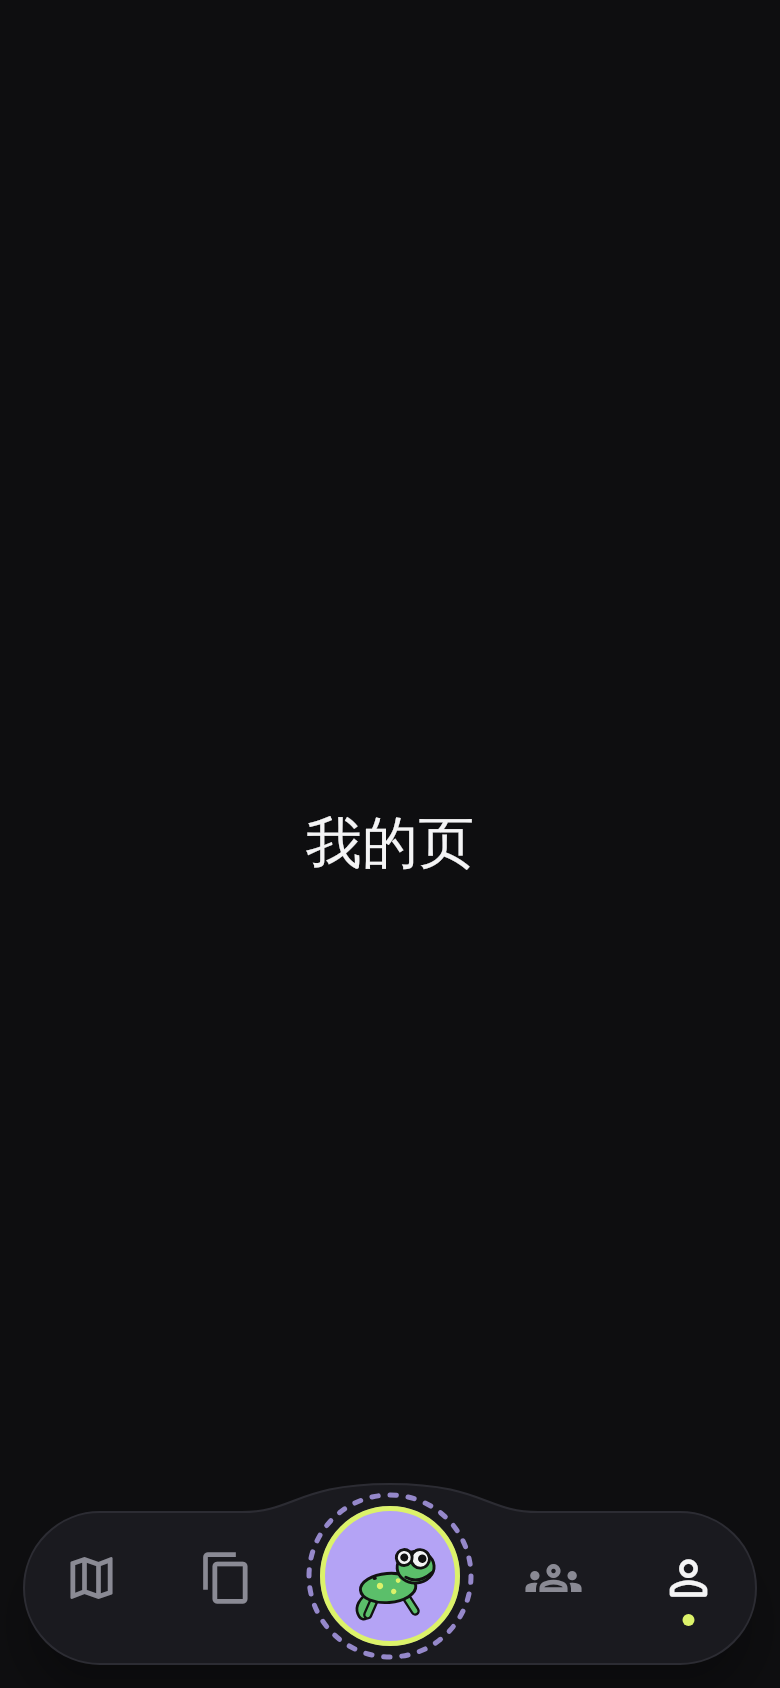
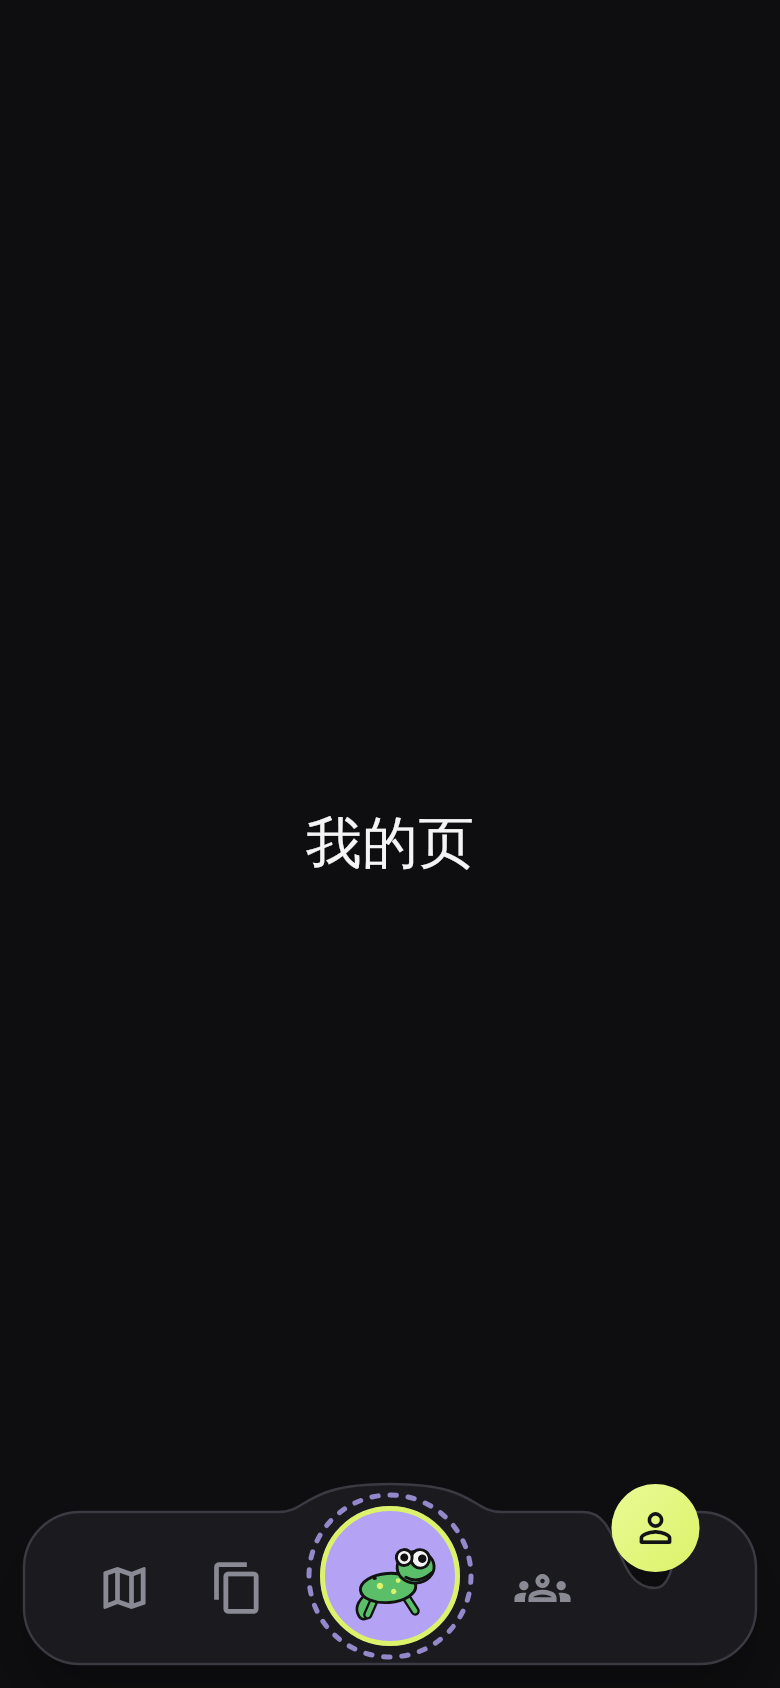
App: liquid bubble tab switch on the bottom bar
- the selected tab (领地/图鉴/社区/我的) is a lime ball sitting in a notch
  cut into the bar's top edge
- switching: the ball pops out of its notch, flies along an arc to the new
  tab and drops in; the old notch closes and the new one opens with an
  elastic bounce; icons swap in and out of the ball
- switching to 开始 shrinks the ball into the center button, and leaving
  开始 pops it back out
- the top edge is drawn segment by segment, so notches never cut into the
  rounded corners, the center hump or each other
- no animation when the system asks to reduce motion

Claude-Session: https://claude.ai/code/session_01QRaVtoKTX5sqZRs9rKjLUf

diff --git a/app/lib/widgets/nav_shell.dart b/app/lib/widgets/nav_shell.dart
@@ -1,3 +1,5 @@
+import 'dart:math' as math;
+
 import 'package:flutter_riverpod/flutter_riverpod.dart';
 import 'package:flutter_svg/flutter_svg.dart';
 import 'package:go_router/go_router.dart';
@@ -59,69 +61,170 @@ class NavShell extends ConsumerWidget {
   }
 }
 
-class _Bar extends StatelessWidget {
+/// 底栏。选中的普通标签（领地 / 图鉴 / 社区 / 我的）是一个浮在上沿的荧光绿圆球，
+/// 底栏在它下面凹进去；切换时圆球从凹口弹起、沿弧线飞到新位置落下，
+/// 旧凹口合上、新凹口带回弹地张开（液态气泡效果）。切到中间「开始」时圆球缩进按钮里。
+class _Bar extends StatefulWidget {
   const _Bar({required this.index, required this.onTap, required this.centerArt});
   final int index;
   final ValueChanged<int> onTap;
   final String centerArt;
 
   @override
-  Widget build(BuildContext context) {
-    Widget item(int i, IconData icon, String label) {
-      final sel = index == i;
-      return Expanded(
-        child: Semantics(
-          button: true,
-          selected: sel,
-          label: label,
-          child: InkResponse(
-            onTap: () => onTap(i),
-            child: Column(mainAxisAlignment: MainAxisAlignment.center, children: [
-              Icon(icon, color: sel ? LL.text : LL.text3, size: 28),
-              const SizedBox(height: 4),
-              Container(
-                width: 6,
-                height: 6,
-                decoration: BoxDecoration(color: sel ? LL.lime : Colors.transparent, shape: BoxShape.circle),
-              ),
-            ]),
-          ),
-        ),
-      );
-    }
+  State<_Bar> createState() => _BarState();
+}
 
-    const button = 84.0; // 中间「开始」按钮直径（含外圈）
+class _BarState extends State<_Bar> with SingleTickerProviderStateMixin {
+  static const _icons = [Icons.map_outlined, Icons.content_copy_outlined, Icons.play_arrow_rounded, Icons.groups_outlined, Icons.person_outline_rounded];
+  static const _labels = ['领地', '图鉴', '开始', '社区', '我的'];
+  static const button = 84.0; // 中间「开始」按钮直径（含外圈）
+  static const ball = 44.0; // 选中圆球直径
+  static const notchDepth = 38.0; // 凹口深度（圆球一半落在凹口里，四周留一圈缝）
+  static const pad = 22.0; // 两端图标离底栏边缘的距离（给圆角让出位置）
+
+  late final AnimationController _c = AnimationController(vsync: this, duration: const Duration(milliseconds: 700), value: 1);
+  late int _from = widget.index, _to = widget.index;
+
+  @override
+  void didUpdateWidget(_Bar old) {
+    super.didUpdateWidget(old);
+    if (widget.index == _to) return;
+    _from = _to;
+    _to = widget.index;
+    if (MediaQuery.disableAnimationsOf(context)) {
+      _c.value = 1;
+    } else {
+      _c.forward(from: 0);
+    }
+  }
+
+  @override
+  void dispose() {
+    _c.dispose();
+    super.dispose();
+  }
+
+  static double _seg(double t, double a, double b) => ((t - a) / (b - a)).clamp(0.0, 1.0);
+
+  @override
+  Widget build(BuildContext context) {
     return SizedBox(
       height: NavShell.barHeight + 22,
-      child: Stack(clipBehavior: Clip.none, alignment: Alignment.bottomCenter, children: [
-        // 底栏：中间向上鼓起一个弧，托住「开始」按钮（同设计稿）
-        SizedBox(
-          height: NavShell.barHeight,
-          width: double.infinity,
-          child: CustomPaint(
-            painter: _BarPainter(hump: button / 2 + 10),
-            child: Row(children: [
-              item(0, Icons.map_outlined, '领地'),
-              item(1, Icons.content_copy_outlined, '图鉴'),
-              const SizedBox(width: button + 12),
-              item(3, Icons.groups_outlined, '社区'),
-              item(4, Icons.person_outline_rounded, '我的'),
-            ]),
-          ),
-        ),
-        Positioned(
-          bottom: NavShell.barHeight / 2 - button / 2 + 6,
-          child: Semantics(
-            button: true,
-            selected: index == 2,
-            label: '开始',
-            child: GestureDetector(
-              onTap: () => onTap(2),
-              child: _StartButton(size: button, selected: index == 2, art: centerArt),
-            ),
-          ),
-        ),
-      ]),
+      child: LayoutBuilder(builder: (context, box) {
+        final w = box.maxWidth;
+        final itemW = (w - 2 * pad - button - 12) / 4;
+        double x(int i) => switch (i) {
+              0 => pad + itemW / 2,
+              1 => pad + itemW * 1.5,
+              2 => w / 2,
+              3 => w / 2 + (button + 12) / 2 + itemW / 2,
+              _ => w - pad - itemW / 2,
+            };
+        return AnimatedBuilder(
+          animation: _c,
+          builder: (context, _) {
+            final t = _c.value;
+            final moving = _from != _to && t < 1;
+            // 凹口：旧的在前 30% 合上，新的在后 40% 带回弹张开
+            final notches = <(double, double)>[
+              if (moving && _from != 2) (x(_from), notchDepth * (1 - Curves.easeIn.transform(_seg(t, 0, 0.3)))),
+              if (_to != 2) (x(_to), notchDepth * (moving ? const ElasticOutCurve(0.45).transform(_seg(t, 0.6, 1)) : 1).clamp(0.0, 2.0)),
+            ];
+            // 圆球：水平按缓动移动，竖直走一条抛物线（经过中间按钮时抛得更高）
+            final move = Curves.easeInOutCubic.transform(_seg(t, 0.05, 0.85));
+            final crossesCenter = (_from - 2) * (_to - 2) < 0;
+            final lift = moving ? (crossesCenter ? 70.0 : 44.0) * math.sin(math.pi * _seg(t, 0, 0.9)) : 0.0;
+            final ballX = moving ? x(_from) + (x(_to) - x(_from)) * move : x(_to);
+            var scale = 1.0;
+            if (moving && _from == 2) scale = Curves.easeOutBack.transform(_seg(t, 0, 0.3));
+            if (_to == 2) scale = moving ? 1 - Curves.easeIn.transform(_seg(t, 0.6, 0.9)) : 0;
+            // 球里的图标：先淡出旧的，落下前淡入新的
+            final showTo = !moving || t > 0.7;
+            final iconOpacity = !moving ? 1.0 : (t < 0.2 ? 1 - _seg(t, 0, 0.2) : _seg(t, 0.7, 0.9));
+            double itemOpacity(int i) {
+              if (i == _to) return moving ? 1 - _seg(t, 0.55, 0.7) : 0;
+              if (i == _from && moving) return _seg(t, 0.05, 0.3);
+              return 1;
+            }
+
+            Widget item(int i) => Expanded(
+                  child: Semantics(
+                    button: true,
+                    selected: widget.index == i,
+                    label: _labels[i],
+                    child: InkResponse(
+                      onTap: () => widget.onTap(i),
+                      child: Center(
+                        child: Opacity(
+                          opacity: itemOpacity(i),
+                          child: Icon(_icons[i], color: LL.text3, size: 28),
+                        ),
+                      ),
+                    ),
+                  ),
+                );
+
+            const barTop = 22.0;
+            return Stack(clipBehavior: Clip.none, alignment: Alignment.bottomCenter, children: [
+              // 底栏：中间向上鼓起托住「开始」按钮，选中项位置凹进去
+              SizedBox(
+                height: NavShell.barHeight,
+                width: double.infinity,
+                child: CustomPaint(
+                  painter: _BarPainter(hump: button / 2 + 10, notches: notches),
+                  child: Padding(
+                    padding: const EdgeInsets.symmetric(horizontal: pad),
+                    child: Row(children: [item(0), item(1), const SizedBox(width: button + 12), item(3), item(4)]),
+                  ),
+                ),
+              ),
+              Positioned(
+                bottom: NavShell.barHeight / 2 - button / 2 + 6,
+                child: Semantics(
+                  button: true,
+                  selected: widget.index == 2,
+                  label: '开始',
+                  child: GestureDetector(
+                    onTap: () => widget.onTap(2),
+                    child: _StartButton(size: button, selected: widget.index == 2, art: widget.centerArt),
+                  ),
+                ),
+              ),
+              // 选中圆球（只是视觉，点击落到下面的标签上）
+              if (scale > 0.01)
+                Positioned(
+                  left: ballX - ball / 2,
+                  top: barTop + 8 - ball / 2 - lift,
+                  child: IgnorePointer(
+                    child: ExcludeSemantics(
+                      child: Transform.scale(
+                        scale: scale,
+                        child: Container(
+                          width: ball,
+                          height: ball,
+                          alignment: Alignment.center,
+                          decoration: BoxDecoration(
+                            shape: BoxShape.circle,
+                            gradient: const LinearGradient(
+                              begin: Alignment.topLeft,
+                              end: Alignment.bottomRight,
+                              colors: [Color(0xFFEAFA94), LL.lime],
+                            ),
+                            boxShadow: [BoxShadow(color: LL.lime.withValues(alpha: 0.3), blurRadius: 12)],
+                          ),
+                          child: Opacity(
+                            opacity: iconOpacity,
+                            child: Icon(_icons[showTo ? _to : _from], color: LL.ink, size: 24),
+                          ),
+                        ),
+                      ),
+                    ),
+                  ),
+                ),
+            ]);
+          },
+        );
+      }),
     );
   }
 }
@@ -218,35 +321,73 @@ class _StartButtonState extends State<_StartButton> with TickerProviderStateMixi
   }
 }
 
-/// 底栏背景：圆角胶囊，中间顶部向上鼓起一个平滑的弧。
+/// 底栏背景：圆角矩形，中间顶部向上鼓起一个平滑的弧，选中项位置向下凹一个碗形缺口。
+/// 上沿按从左到右依次画出凹口和鼓包（不用路径布尔运算，避免边缘重合时算错）。
 class _BarPainter extends CustomPainter {
-  _BarPainter({required this.hump});
+  _BarPainter({required this.hump, this.notches = const []});
   final double hump; // 鼓起部分的半宽
+  final List<(double, double)> notches; // 凹口：(中心 x, 深度)
+
+  static const radius = 28.0; // 底栏圆角
+  static const shoulder = 36.0; // 凹口单侧宽度（靠近圆角、鼓包或另一个凹口时自动收窄）
+  static const rise = 14.0; // 鼓起高度
 
   @override
   void paint(Canvas canvas, Size size) {
-    final w = size.width, h = size.height, r = h / 2, cx = w / 2;
-    const rise = 14.0; // 鼓起高度
-    final path = Path()
-      ..moveTo(r, 0)
-      ..lineTo(cx - hump - 22, 0)
-      ..cubicTo(cx - hump + 4, 0, cx - hump + 6, -rise, cx, -rise)
-      ..cubicTo(cx + hump - 6, -rise, cx + hump - 4, 0, cx + hump + 22, 0)
+    final w = size.width, h = size.height, r = radius, cx = w / 2;
+    final humpL = cx - hump - 4, humpR = cx + hump + 4; // 鼓包两端
+    // 每个凹口两侧的宽度：不进圆角、不进鼓包、和相邻凹口在中点分开
+    final list = [for (final n in notches) if (n.$2 >= 0.5) n]..sort((a, b) => a.$1.compareTo(b.$1));
+    final sides = <(double, double)>[];
+    for (var i = 0; i < list.length; i++) {
+      final x = list[i].$1;
+      var l = math.min(shoulder, x < cx ? x - r - 2 : x - humpR);
+      var rr = math.min(shoulder, x < cx ? humpL - x : w - r - 2 - x);
+      if (i > 0) l = math.min(l, (x - list[i - 1].$1) / 2);
+      if (i < list.length - 1) rr = math.min(rr, (list[i + 1].$1 - x) / 2);
+      sides.add((l, rr));
+    }
+    final path = Path()..moveTo(r, 0);
+    void notch(int i) {
+      final (x, d) = list[i];
+      final (l, rr) = sides[i];
+      if (l < 4 || rr < 4) return;
+      path
+        ..lineTo(x - l, 0)
+        ..cubicTo(x - l * 0.45, 0, x - l * 0.6, d, x, d)
+        ..cubicTo(x + rr * 0.6, d, x + rr * 0.45, 0, x + rr, 0);
+    }
+
+    for (var i = 0; i < list.length; i++) {
+      if (list[i].$1 < cx) notch(i);
+    }
+    path
+      ..lineTo(humpL, 0)
+      ..cubicTo(cx - hump + 12, 0, cx - hump + 8, -rise, cx, -rise)
+      ..cubicTo(cx + hump - 8, -rise, cx + hump - 12, 0, humpR, 0);
+    for (var i = 0; i < list.length; i++) {
+      if (list[i].$1 > cx) notch(i);
+    }
+    path
       ..lineTo(w - r, 0)
-      ..arcToPoint(Offset(w - r, h), radius: Radius.circular(r))
+      ..arcToPoint(Offset(w, r), radius: const Radius.circular(radius))
+      ..lineTo(w, h - r)
+      ..arcToPoint(Offset(w - r, h), radius: const Radius.circular(radius))
       ..lineTo(r, h)
-      ..arcToPoint(Offset(r, 0), radius: Radius.circular(r))
+      ..arcToPoint(Offset(0, h - r), radius: const Radius.circular(radius))
+      ..lineTo(0, r)
+      ..arcToPoint(Offset(r, 0), radius: const Radius.circular(radius))
       ..close();
     canvas.drawShadow(path, const Color(0xFF000000), 12, false);
     canvas.drawPath(path, Paint()..color = const Color(0xF21B1B20));
     canvas.drawPath(path, Paint()
-      ..color = LL.border
+      ..color = const Color(0xFF3A3A42) // 描边略亮一点，凹口轮廓在深色背景上也看得出
       ..style = PaintingStyle.stroke
-      ..strokeWidth = 1);
+      ..strokeWidth = 1.2);
   }
 
   @override
-  bool shouldRepaint(_BarPainter old) => old.hump != hump;
+  bool shouldRepaint(_BarPainter old) => true;
 }
 
 /// 「开始」按钮外圈的虚线圆。
